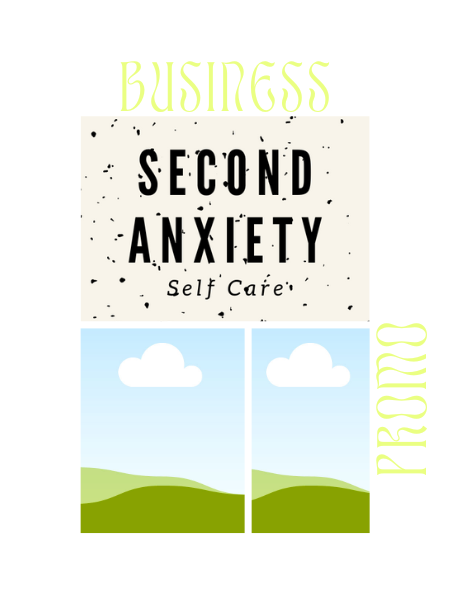
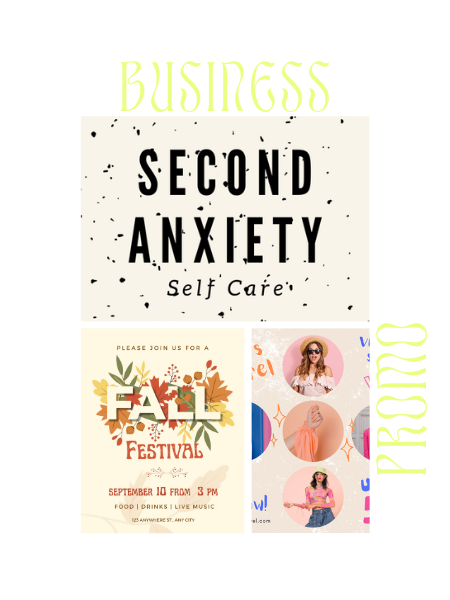
Adjusted screen values

Changed region(s): [[0.1556, 0.54, 0.84, 0.9]]

diff --git a/index.html b/index.html
@@ -110,7 +110,7 @@ function toggleFunction() {
           </div>
   <div class="threeImageColumnLeft">
       <button class="imageButtons">
-      <img src="images/Business%20Promo%20-%20Website.png" width="450px" width="450px"> 
+      <img src="images/Promo%20Card%20-%20Website.png" width="450px" width="450px"> 
       </button>
         </div>
     
